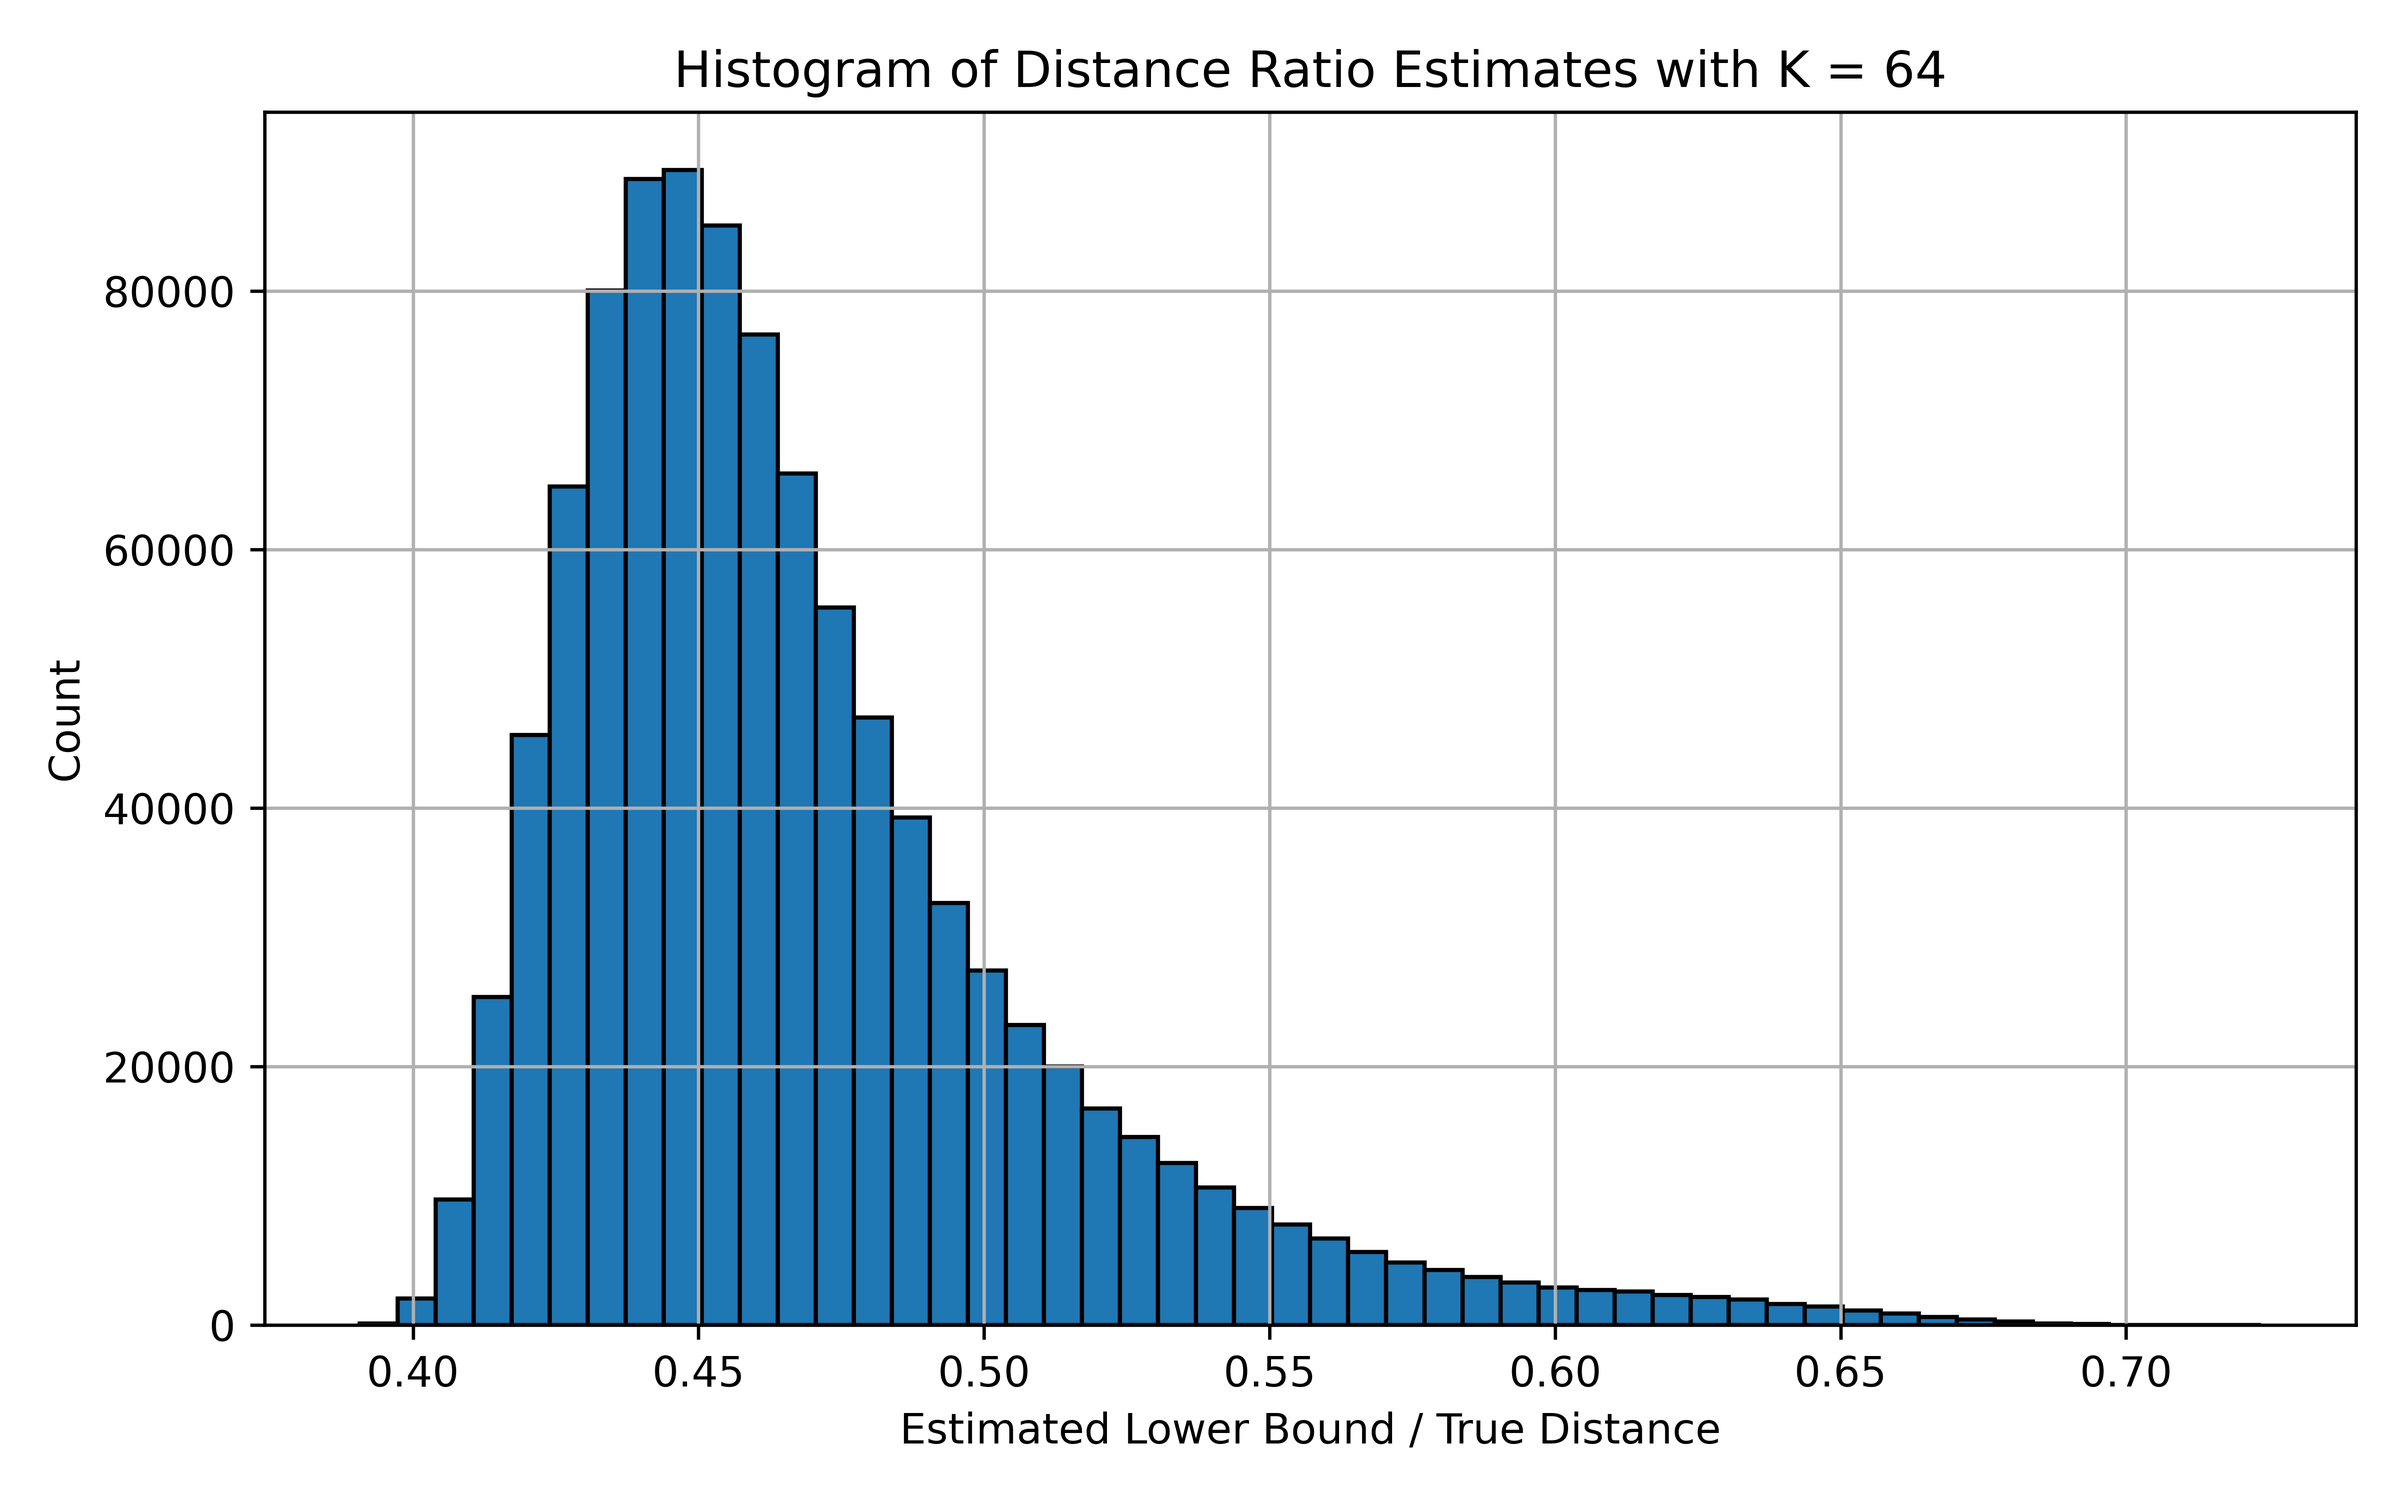
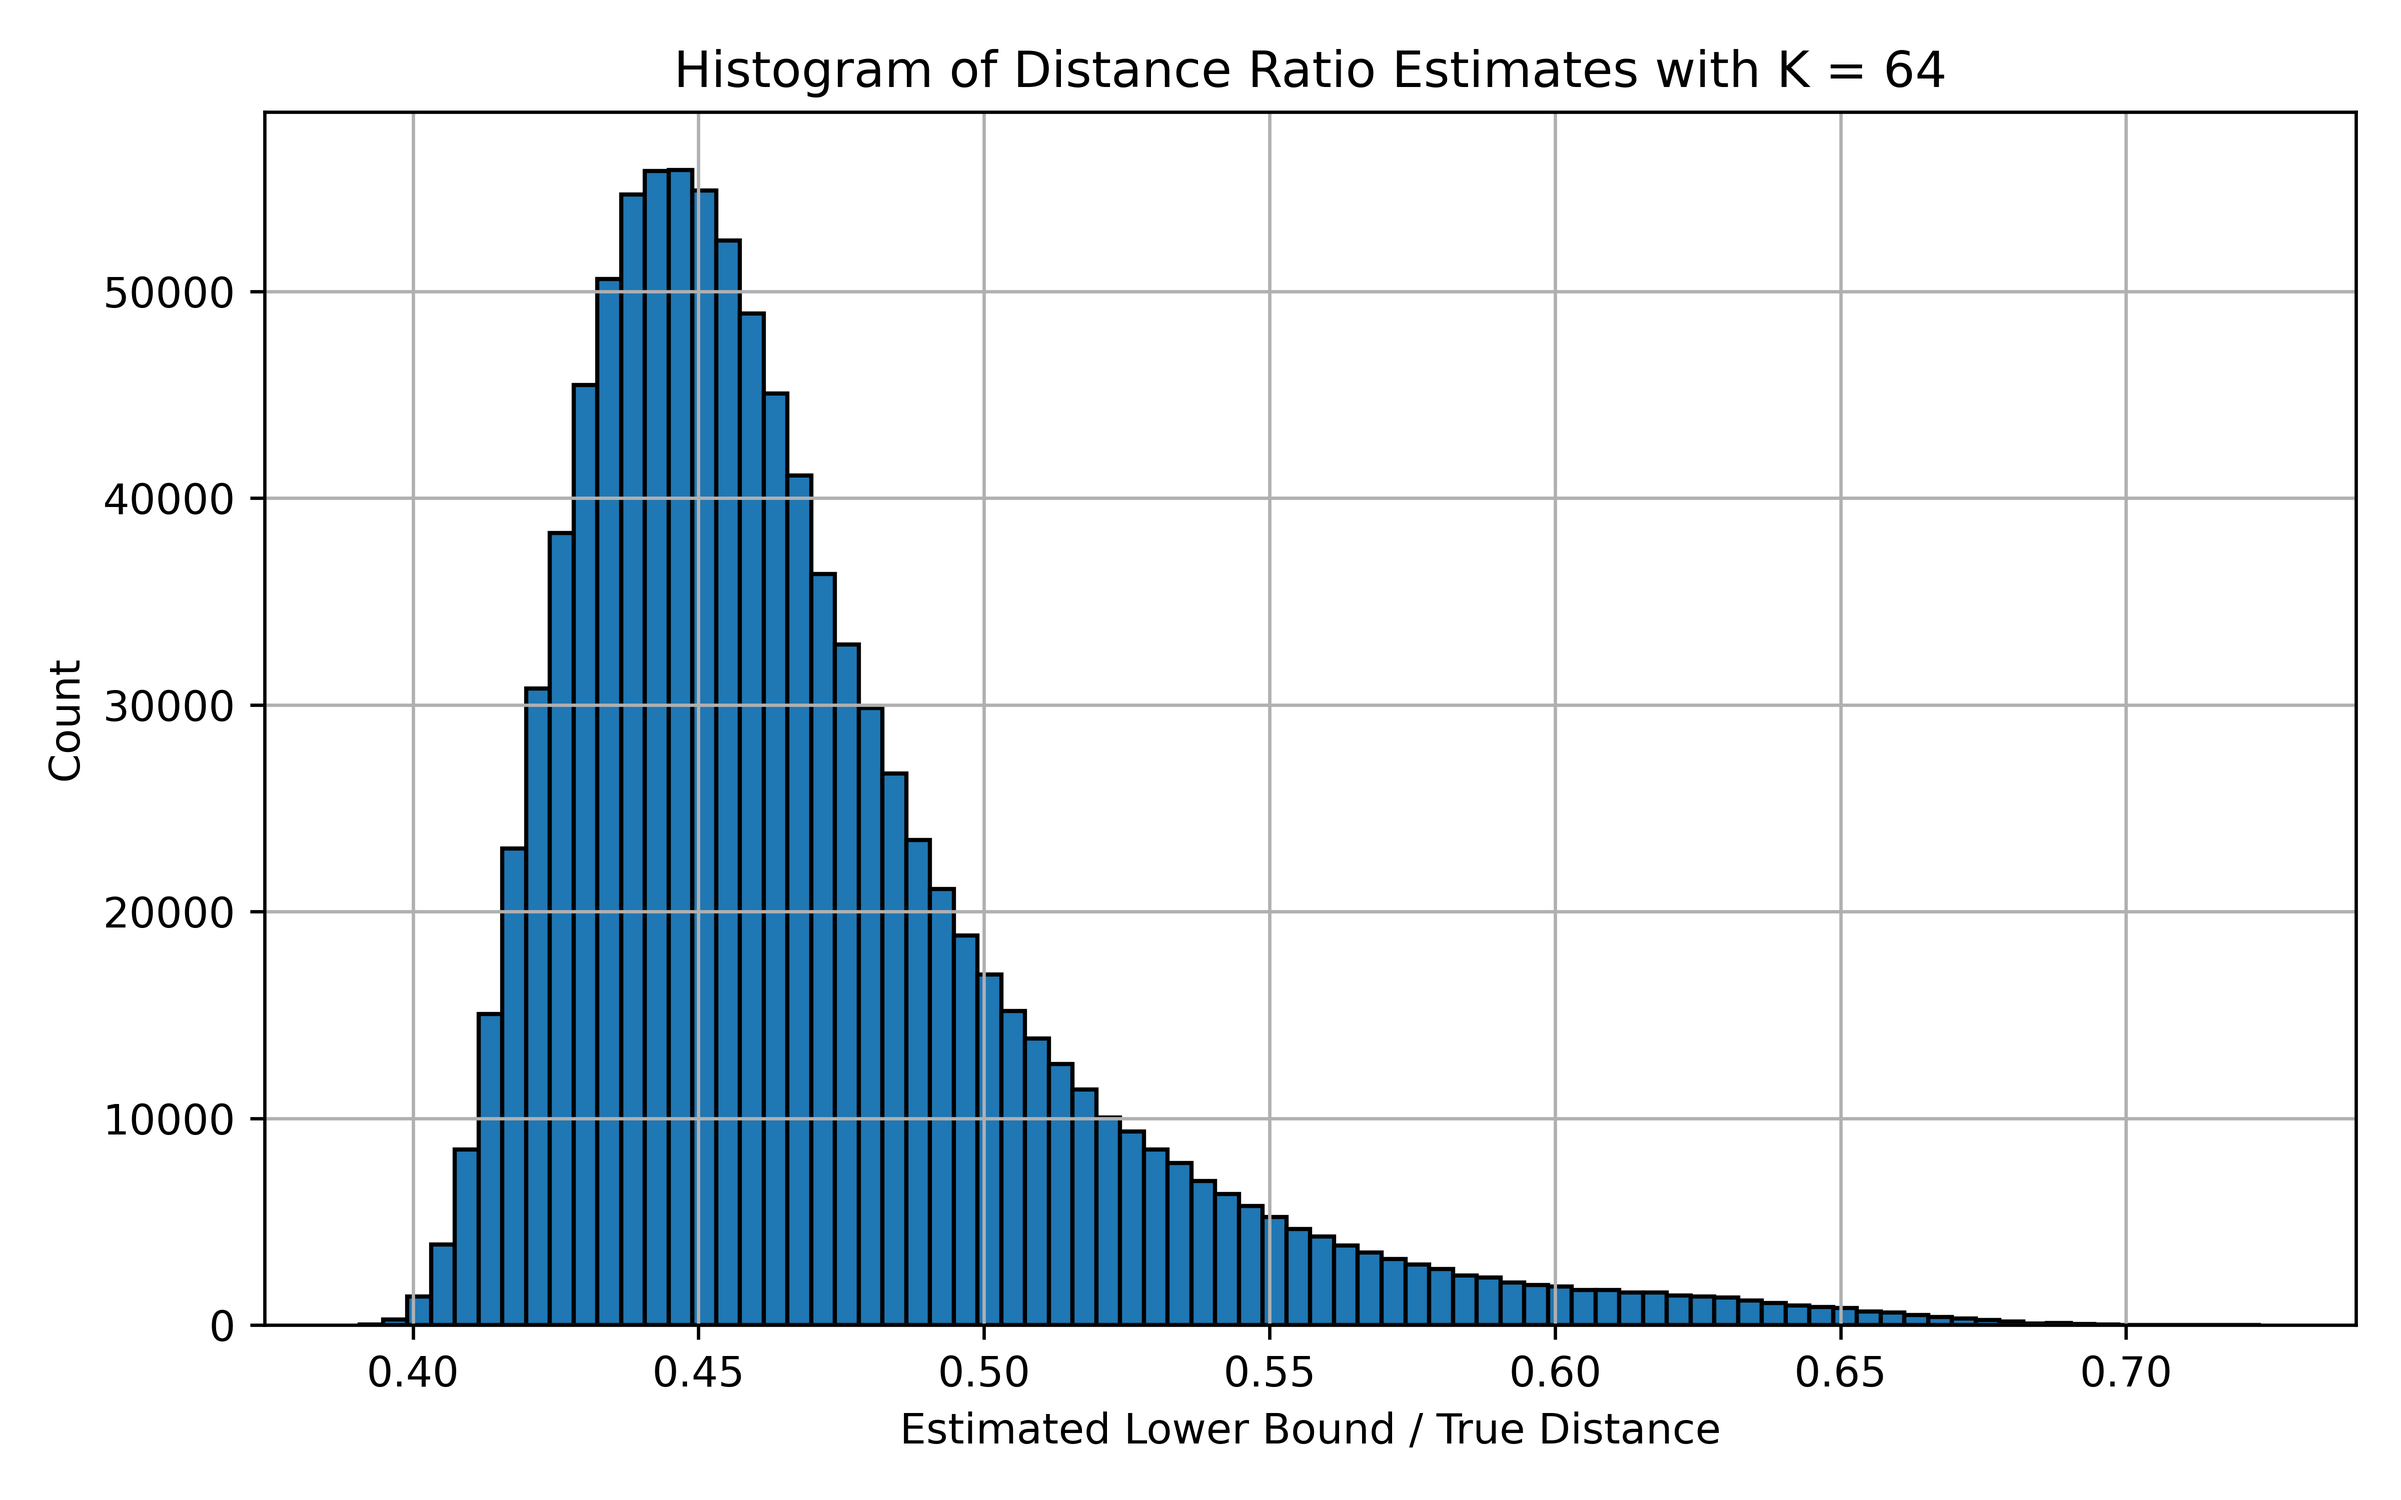
save tmp

diff --git a/data/vis.py b/data/vis.py
@@ -4,9 +4,9 @@ import os
 
 source = '/data/vector_datasets/'
 datasets = ['sift']
-K=1024
+K=64
 
-def plot_ratio_histogram_from_txt(txt_file, output_path, bins=50):
+def plot_ratio_histogram_from_txt(txt_file, output_path, bins=80):
     # Load data
     try:
         ratios = np.loadtxt(txt_file)
